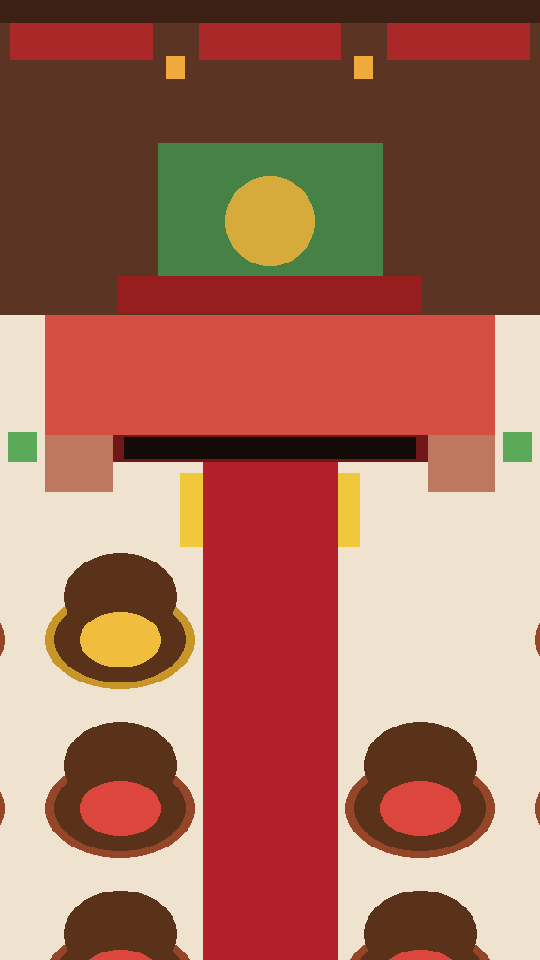
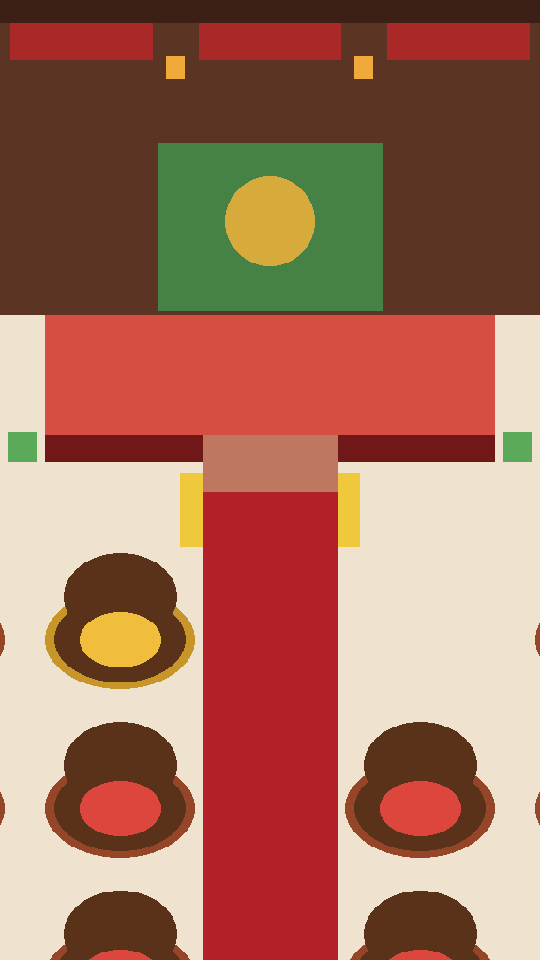
宴会厅 55 桌摆位底图 v3.2：删掉横幅和 LED（阿鱼：太丑了），台阶回到台口正中一段 144，红毯接到台阶下沿；北边三样重出

Changed region(s): [[0.0593, 0.4375, 0.9185, 0.5312], [0.2074, 0.2812, 0.8, 0.3438]]

diff --git a/godot/回执/宴会厅55桌-摆位表.md b/godot/回执/宴会厅55桌-摆位表.md
@@ -1,4 +1,4 @@
-# 宴会厅 55 桌 · 摆位表（02，9/25，v3）
+# 宴会厅 55 桌 · 摆位表（02，9/28，v3.2）
 
 > 01 D 9/25 派。画布 1536×2714，1:1（人 84）。坐标单位画布像素，x、y 是左上角。依据：ASSETS §15（左右和高 1 米 = 48、地面前后 1 米 = 32）、04 `体验-第47版-55桌.md`、03 `比例量尺-55桌摆位底图v2.md`、方案 `宴会厅55桌-方案.md`。脚本 `tools/layout_55/make_board55.py`，改数重跑。
 > **v3：x、y、宽、高是画出来在画面上占的框（色块画的就是它），下沿是落地的地方；「占地」列是地上占的地（走路判定用），平的东西两个一样。**
@@ -24,17 +24,14 @@
 | 东墙（北段） | 1496 | 336 | 40 | 1547 | 同框（平的） | 墙厚 40（约 0.8 米）；平的 |
 | 东墙（南段） | 1496 | 1941 | 40 | 717 | 同框（平的） | 墙厚 40（约 0.8 米）；平的 |
 | 东侧门（门洞） | 1496 | 1883 | 40 | 58 | 同框（平的） | §15 双开门宽 1.8 米；开在东墙上，宽沿地面前后算：1.8×32=58；开在第二条横走道东头 |
-| 花拱 | 648 | 152 | 240 | 180 | 同框（平的） | 宽 5 米×48=240、高 3.75 米×48=180（§15 没有）；下沿 38 被横幅盖住（横幅在前） |
+| 花拱 | 648 | 152 | 240 | 180 | 同框（平的） | 宽 5 米×48=240、高 3.75 米×48=180（§15 没有） |
 | 囍字圆牌 | 720 | 188 | 96 | 96 | 同框（平的） | 直径 2 米×48=96（§15 没有） |
-| 横幅 | 606 | 294 | 324 | 40 | 同框（平的） | 宽 6.75 米×48=324、高 0.8 米×48=40；囍下沿往下 10；挂在花拱前面，盖住花拱下沿 38（294～332） |
 | 婚礼台（台面） | 528 | 336 | 480 | 128 | 528, 365, 480×128（落地线 493） | 占地宽 10 米×48=480、前后 4 米×32=128（365～493）；台高 0.6 米，台面画在占地往上 29（336～464） |
 | 婚礼台（台口立面） | 528 | 464 | 480 | 29 | 528, 477, 480×16（落地线 493） | 台高 0.6 米×48=29；落地线 493；色块比台面深得多（v3.1，04 新 3：台面、立面要分得开） |
-| 台阶（西） | 528 | 464 | 72 | 61 | 528, 493, 72×32（落地线 525） | 在台口西端：占地宽 1.5 米×48=72、前后 1 米×32=32；最上一级和台面一样高 0.6 米，往上加 29 |
-| 台阶（东） | 936 | 464 | 72 | 61 | 936, 493, 72×32（落地线 525） | 在台口东端：占地宽 1.5 米×48=72、前后 1 米×32=32；最上一级和台面一样高 0.6 米，往上加 29 |
-| LED 屏 | 612 | 466 | 312 | 24 | 同框（平的） | 贴在台口立面中间整段：台面 480 减两端台阶各 72、再各留 12，宽 312；高 24（0.5 米） |
-| 新人站位（新娘）（只在标注版） | 740 | 430 | 24 | 8 | 同框（平的） | 台面中间、囍字正下方；只标脚下 y 434。人 84 高，头顶到 y 350，在横幅下沿 334 下面、不挡横幅和囍 |
-| 新人站位（新郎）（只在标注版） | 772 | 430 | 24 | 8 | 同框（平的） | 台面中间、囍字正下方；只标脚下 y 434。人 84 高，头顶到 y 350，在横幅下沿 334 下面、不挡横幅和囍 |
-| 红毯 | 696 | 493 | 144 | 2068 | 同框（平的） | 3 米×48=144（方案）；从台口立面下沿到大门跟前 |
+| 台阶 | 696 | 464 | 144 | 61 | 696, 493, 144×32（落地线 525） | 台口正中一段（v3.2，像第 44 版）：占地宽 3 米×48=144（和红毯一样宽）、前后 1 米×32=32，两级；最上一级和台面一样高 0.6 米，往上加 29 |
+| 新人站位（新娘）（只在标注版） | 740 | 430 | 24 | 8 | 同框（平的） | 台面中间、囍字正下方；只标脚下 y 434。人 84 高，头顶到 y 350，在囍字下沿 284 下面、不挡囍 |
+| 新人站位（新郎）（只在标注版） | 772 | 430 | 24 | 8 | 同框（平的） | 台面中间、囍字正下方；只标脚下 y 434。人 84 高，头顶到 y 350，在囍字下沿 284 下面、不挡囍 |
+| 红毯 | 696 | 525 | 144 | 2036 | 同框（平的） | 3 米×48=144（方案）；从台阶下沿到大门跟前 |
 | 红毯西侧落地宫灯（台前） | 672 | 504 | 24 | 80 | 672, 572, 24×12（落地线 584） | §15 落地宫灯高 77～86，取 80；宽 0.5 米×48=24；占地是最下面 12 |
 | 红毯东侧落地宫灯（台前） | 840 | 504 | 24 | 80 | 840, 572, 24×12（落地线 584） | §15 落地宫灯高 77～86，取 80；宽 0.5 米×48=24；占地是最下面 12 |
 | 红毯西侧落地宫灯（第 1 条横走道） | 672 | 1088 | 24 | 80 | 672, 1156, 24×12（落地线 1168） | §15 落地宫灯高 77～86，取 80；宽 0.5 米×48=24；占地是最下面 12 |
@@ -192,11 +189,10 @@
 ## 自检
 
 - 比例：每样都照 §15 的数取（取值见「依据」列），没有大过 1.5 倍、小过一半的
-- 画面上谁也不压谁：按画出来的框比。可以叠的只有：桌压自己的地毯；墙上的梁、帐幔、挂灯、花拱、囍、横幅贴北墙（横幅在花拱前面）；台面、台口、两端台阶、LED、新人脚印是一座台子；乐队站在地台上、坐着的人坐在凳子椅子上。立着的东西画出来挡住它后面的地面（地毯、红毯）不算压，但它的占地不踩别桌的地毯
+- 画面上谁也不压谁：按画出来的框比。可以叠的只有：桌压自己的地毯；墙上的梁、帐幔、挂灯、花拱、囍贴北墙；台面、台口、台阶、新人脚印是一座台子；乐队站在地台上、坐着的人坐在凳子椅子上。立着的东西画出来挡住它后面的地面（地毯、红毯）不算压，但它的占地不踩别桌的地毯
 - 地毯之间都露地面：左右 43，上下 75
 - 主桌 + T1～T54（55 桌），每张都能从红毯走到；走路按占地算，路按人宽 43 算（离挡路的东西 21 像素以内不算能站）
-- 横幅 294～334，在囍字下沿 284 下面，不盖囍；横幅在花拱前面，盖住花拱下沿 38；LED 612～924，在台面 528～1008 里、不跟两端台阶叠
-- 手机顶上 140 那条里只有墙顶横梁、帐幔、挂灯；囍、花拱、横幅都整个在 150 以下
+- 手机顶上 140 那条里只有墙顶横梁、帐幔、挂灯；囍、花拱都整个在 150 以下
 - 乐队的钢琴、琴凳、椅子、谱架和 4 个人，占地都在乐队地台里
 - 所有东西都在画布里（v2 表里的「挂灯 8」出了画布，v3 挂灯只挂在帐幔之间的 7 条缝里）
 - **行与行之间画面上露出的地面，最窄 42**（前一排桌画出来的前沿到后一排椅背）；连地毯也不算地面的话最窄 35（前一排地毯下沿到后一排椅背）

diff --git a/godot/回执/宴会厅55桌-摆位底图-回执.md b/godot/回执/宴会厅55桌-摆位底图-回执.md
@@ -1,6 +1,6 @@
-# 宴会厅 55 桌摆位底图 · 回执（02，9/28，v3.1）
+# 宴会厅 55 桌摆位底图 · 回执（02，9/28，v3.2）
 
-> 现在是 v3.1（04 复看 v3 的新 2、新 3，03 量 v3 的四处文字出入，01 D 9/28 派，见最后一节「v3.1 改了什么」；v2、v3 那两节留着）。下面各节都已按 v3.1 的数改过
+> 现在是 v3.2（阿鱼 9/28：「不要横幅和 led 了，太丑了」，见最后一节「v3.2 改了什么」；v2、v3、v3.1 那几节留着当记录，里面说到横幅、LED、两端台阶的都已作废）
 > **v3 起，色块画的是每样东西画出来在画面上占的框，下沿是它落地的地方；摆位表另有一列「占地」**
 
 01 D 9/25 派。这是 GPT 画 5 张效果图的底子，每样东西的坐标、大小在这一步定死。
@@ -42,12 +42,12 @@
   - 北墙：高 7 米，336 像素
   - 墙顶那一条（y 0～140，手机上被胶囊和左上角牌子挡）只放挡了也不可惜的：横梁 24 高、帐幔 40 高、挂灯 20×24
   - 花拱 240×180（y 152～332），囍字圆牌直径 96（y 188～284），都贴北墙，整个在 150 以下
-  - 横幅 324×40（y 294～334）：挂在墙上，囍字下沿往下 10，不盖囍，也不下到台面（墙脚 336）
+  - ~~横幅~~：v3.2 删了
   - 婚礼台：占地宽 480、前后 128（y 365～493）；台高 29，台面画在 336～464，台口立面 464～493，落地线 493
-  - 台阶：在台口两端，左右各一段 72 宽，两级，占地前后 32（493～525）；最上一级和台面一样高，画出来 464～525
-  - LED 屏 312×24：贴在台口立面中间整段，两端台阶里边各留 12
-  - 红毯从台口立面下沿直接往南铺（台中间没有台阶了）
-  - 新人站位：台面中间、囍字正下方，只标了两个脚印（脚下 y 434）。人 84 高，头顶到 y 350，在横幅下沿 334 下面
+  - 台阶：v3.2 回到台口正中一段，144 宽（和红毯一样宽），两级，占地前后 32（493～525）；最上一级和台面一样高，画出来 464～525
+  - ~~LED 屏~~：v3.2 删了
+  - 红毯从台阶下沿（525）往南铺
+  - 新人站位：台面中间、囍字正下方，只标了两个脚印（脚下 y 434），只在标注版里有。人 84 高，头顶到 y 350，在囍字下沿 284 下面
 - **乐队**
   - 在台子东边，站在一块乐队地台上。地台占地 340×96，约 7 米 × 3 米，台高 10，像 12 桌厅的乐队台
   - 地台上照比例尺画：
@@ -99,21 +99,21 @@
     - 把台前宫灯往南挪 40，它报压住主桌
   - 挪进横走道那种本来就不压的，它不报
 
-## 给 01 写 GPT 任务用的两句（v3 按新画布重写）
+## 给 01 写 GPT 任务用的两句（v3.2 按新画布重写）
 
 1. GPT 上次那张 `preview_banquet_full_v1.png` 是 **1536×1024**（横的），是 GPT 一张图的最大尺寸
 2. 整厅 1536×2714 一张画不下。**建议效果图画北边那一块：1536×1024，1:1，就是底图 y 0～1024**
    - 这一块里有：
      - 7 米高的北墙，最上面是横梁、帐幔、挂灯
-     - 花拱、囍、横幅（横幅在花拱前面）
-     - 婚礼台：两端台阶、台口 LED
+     - 花拱、囍（没有横幅）
+     - 婚礼台：台口正中一段台阶，没有 LED
      - 新人站位
      - 乐队地台和上面的钢琴、琴凳、椅子、谱架、4 个乐手
      - 礼物堆、长凳、台前两盏宫灯
      - 主桌、前 2 排桌子（T1～T8，游戏桌 T1～T6 都在里面）
      - 第 3 排 T9～T14 露出椅背和上半截
    - **每样东西的色块就是它画出来的框，下沿是落地的地方**：GPT 照色块画，东西就不会叠；桌子画出来是 140 宽、138 高，不是 92
-   - **婚礼台台高 0.6 米**：台口立面 29 像素高（色块里最深的那条红，大部分被 LED 盖着，LED 两头和上下露出来），台面是上面浅的那块红，两端的台阶是更浅的一种（04 新 3）
+   - **婚礼台台高 0.6 米**：台面是浅红那块，台口立面是下面 29 像素高的深红那条，台阶是正中那块更浅的
    - 厅里要拆的东西，这块里都有：桌、地毯、宫灯、花盆、壁边灯柱各有样子
    - 后面的排都是同一张桌子重复摆
    - 要看大门那头，另画一张南边 1536×1024（y 1690～2714）：大门、栏杆、进门空地、后 3 排桌（最南一排 4 张左右对称）
@@ -213,3 +213,17 @@
    3. 帐幔东边空一段光板 → 7 段在两边墙之间左右匀开，段与段、段与墙之间的缝一样宽，挂灯挂在缝正中
    4. 大提琴 70 高 → 收到 62（琴 58 + 尾柱着地 4），在 03 估的 48～62 里
 4. 整厅五样、有人的中间屏、共用文件夹北边三样都重出了，自检全过：行间露地面最窄 42，不算地毯 35
+
+## v3.2 改了什么（阿鱼 9/28：「不要横幅和 led 了，太丑了」，01 D 派）
+
+1. **删掉横幅和 LED 屏**，囍字、花拱照留
+2. **台阶回到台口正中**
+   - 像第 44 版那样一段，宽照 v1 的 144，和红毯一样宽
+   - 两端那两段删掉，台口立面现在整条露出来（深红）
+   - 红毯从台阶下沿 525 往南接
+3. **自检**：横幅、LED 那几条删了，别的照跑
+   - 全过
+   - 行间露地面最窄 42，不算地毯 35
+4. **重出**：整厅五样、有人的中间屏、共用文件夹北边三样，同名覆盖
+   - 摆位表 180 件（少了横幅、LED、一段台阶）
+   - 北边那块 79 件
